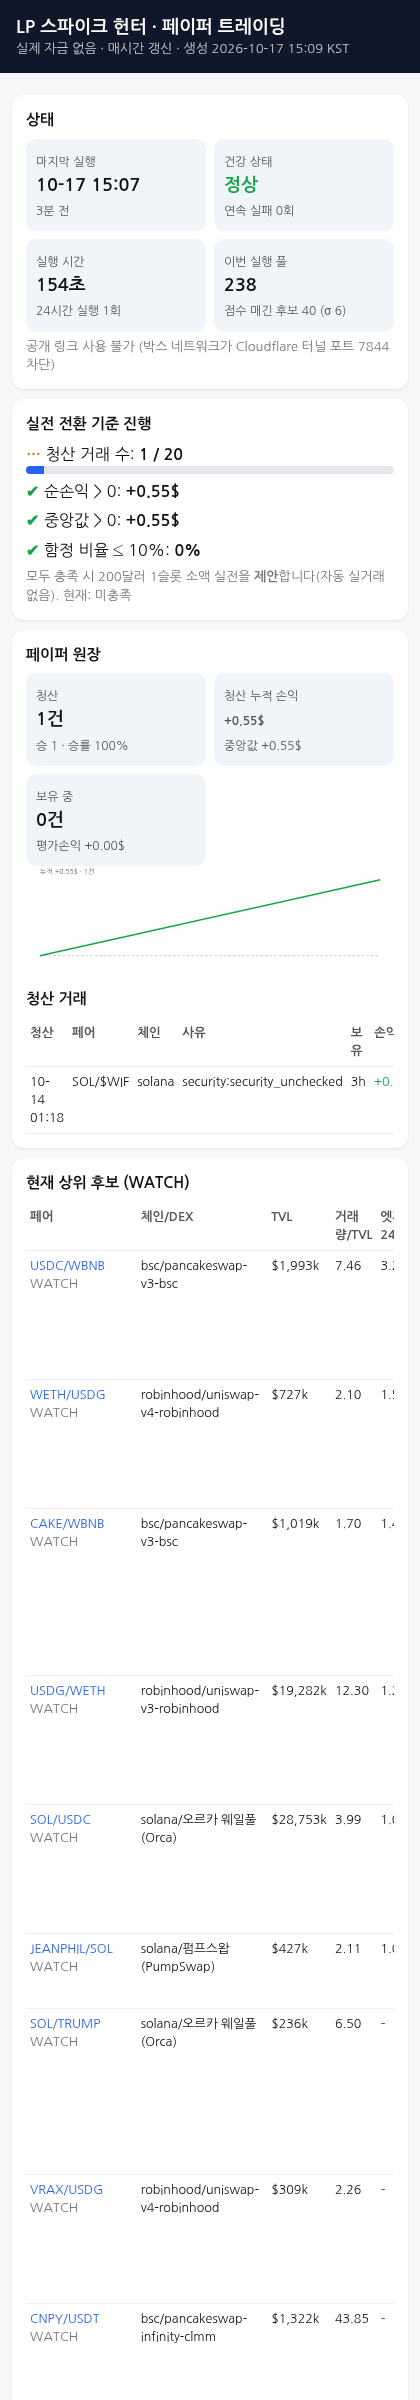
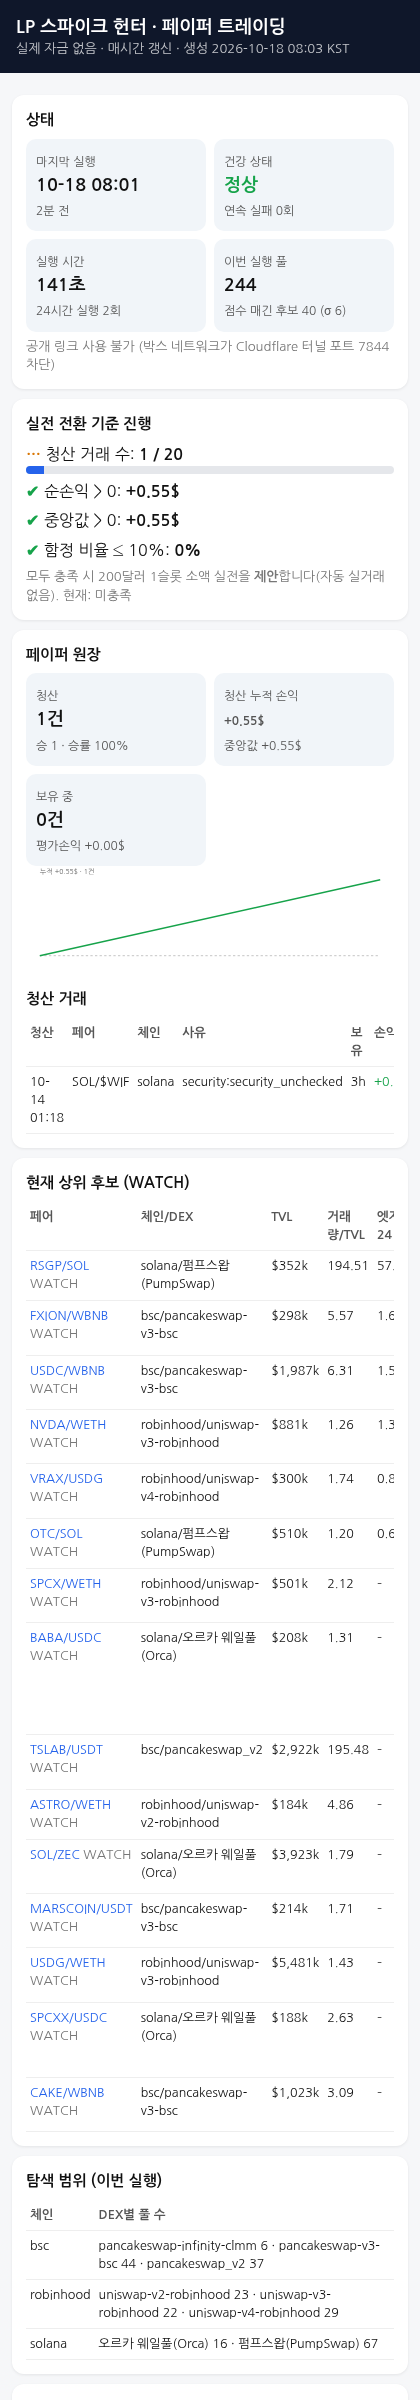
update 2026-10-18 08:03 KST

diff --git a/index.html b/index.html
@@ -12,12 +12,12 @@ th{color:#555;font-weight:600} .scroll{overflow-x:auto} .pos{color:#16a34a} .neg
 .bar{height:8px;background:#e5e7eb;border-radius:4px;overflow:hidden} .bar i{display:block;height:100%;background:#2563eb}
 .chart{width:100%;height:auto} a{color:#2563eb;text-decoration:none} .chg{color:#7c3aed;font-weight:600}
 </style></head><body>
-<header><h1>LP 스파이크 헌터 · 페이퍼 트레이딩</h1><div class="sub">실제 자금 없음 · 매시간 갱신 · 생성 2026-10-17 15:09 KST</div></header><main>
+<header><h1>LP 스파이크 헌터 · 페이퍼 트레이딩</h1><div class="sub">실제 자금 없음 · 매시간 갱신 · 생성 2026-10-18 08:03 KST</div></header><main>
 <div class="card"><h2>상태</h2><div class="grid">
-<div class="kpi"><span>마지막 실행</span><b>10-17 15:07</b><span>3분 전</span></div>
+<div class="kpi"><span>마지막 실행</span><b>10-18 08:01</b><span>2분 전</span></div>
 <div class="kpi"><span>건강 상태</span><b class="ok">정상</b><span>연속 실패 0회</span></div>
-<div class="kpi"><span>실행 시간</span><b>154초</b><span>24시간 실행 1회</span></div>
-<div class="kpi"><span>이번 실행 풀</span><b>238</b><span>점수 매긴 후보 40 (σ 6)</span></div>
+<div class="kpi"><span>실행 시간</span><b>141초</b><span>24시간 실행 2회</span></div>
+<div class="kpi"><span>이번 실행 풀</span><b>244</b><span>점수 매긴 후보 40 (σ 6)</span></div>
 </div><div class="muted" style="margin-top:6px">공개 링크 사용 불가 (박스 네트워크가 Cloudflare 터널 포트 7844 차단)</div></div>
 <div class="card"><h2>실전 전환 기준 진행</h2>
 <div style="margin:6px 0"><b class="warn">…</b> 청산 거래 수: <b>1 / 20</b><div class="bar"><i style="width:5%"></i></div></div>
@@ -35,26 +35,26 @@ th{color:#555;font-weight:600} .scroll{overflow-x:auto} .pos{color:#16a34a} .neg
 </table></div>
 </div>
 <div class="card"><h2>현재 상위 후보 (WATCH)</h2><div class="scroll"><table><tr><th>페어</th><th>체인/DEX</th><th>TVL</th><th>거래량/TVL</th><th>엣지24</th><th>엣지6</th><th>진입 안 하는 이유</th></tr>
-<tr><td><a href='https://www.geckoterminal.com/bsc/pools/0xf2688fb5b81049dfb7703ada5e770543770612c4'>USDC/WBNB</a> <span class='muted'>WATCH</span></td><td>bsc/pancakeswap-v3-bsc</td><td>$1,993k</td><td>7.46</td><td>3.25</td><td>3.76</td><td><span class="tag">24h 엣지 부족 (edge24&lt;5)</span><span class="tag">6h 엣지 부족 (edge6&lt;5)</span><span class="tag">수수료&lt;비용 (fee24&lt;2x_cost)</span><span class="tag">유동성 이력 부족(&lt;3h) (k_unsettled(&lt;3h liquidity history))</span></td></tr>
-<tr><td><a href='https://www.geckoterminal.com/robinhood/pools/0x54f7883914619af9105355bf83ed678bcf9f63560218ac61c9963b9503d0ba32'>WETH/USDG</a> <span class='muted'>WATCH</span></td><td>robinhood/uniswap-v4-robinhood</td><td>$727k</td><td>2.10</td><td>1.59</td><td>0.34</td><td><span class="tag">24h 엣지 부족 (edge24&lt;5)</span><span class="tag">6h 엣지 부족 (edge6&lt;5)</span><span class="tag">수수료&lt;비용 (fee24&lt;2x_cost)</span><span class="tag">유동성 이력 부족(&lt;3h) (k_unsettled(&lt;3h liquidity history))</span></td></tr>
-<tr><td><a href='https://www.geckoterminal.com/bsc/pools/0xafb2da14056725e3ba3a30dd846b6bbbd7886c56'>CAKE/WBNB</a> <span class='muted'>WATCH</span></td><td>bsc/pancakeswap-v3-bsc</td><td>$1,019k</td><td>1.70</td><td>1.45</td><td>2.11</td><td><span class="tag">24h 엣지 부족 (edge24&lt;5)</span><span class="tag">6h 엣지 부족 (edge6&lt;5)</span><span class="tag">보안 플래그 (security:security_unchecked)</span><span class="tag">수수료&lt;비용 (fee24&lt;2x_cost)</span><span class="tag">유동성 이력 부족(&lt;3h) (k_unsettled(&lt;3h liquidity history))</span></td></tr>
-<tr><td><a href='https://www.geckoterminal.com/robinhood/pools/0x52e65b17fb6e5ba00ed806f37afcd2daa50271ca'>USDG/WETH</a> <span class='muted'>WATCH</span></td><td>robinhood/uniswap-v3-robinhood</td><td>$19,282k</td><td>12.30</td><td>1.26</td><td>0.32</td><td><span class="tag">24h 엣지 부족 (edge24&lt;5)</span><span class="tag">6h 엣지 부족 (edge6&lt;5)</span><span class="tag">수수료&lt;비용 (fee24&lt;2x_cost)</span><span class="tag">유동성 이력 부족(&lt;3h) (k_unsettled(&lt;3h liquidity history))</span></td></tr>
-<tr><td><a href='https://www.geckoterminal.com/solana/pools/Czfq3xZZDmsdGdUyrNLtRhGc47cXcZtLG4crryfu44zE'>SOL/USDC</a> <span class='muted'>WATCH</span></td><td>solana/오르카 웨일풀(Orca)</td><td>$28,753k</td><td>3.99</td><td>1.09</td><td>0.41</td><td><span class="tag">24h 엣지 부족 (edge24&lt;5)</span><span class="tag">6h 엣지 부족 (edge6&lt;5)</span><span class="tag">수수료&lt;비용 (fee24&lt;2x_cost)</span><span class="tag">유동성 이력 부족(&lt;3h) (k_unsettled(&lt;3h liquidity history))</span></td></tr>
-<tr><td><a href='https://www.geckoterminal.com/solana/pools/4R8CiMnJWDNoes3fQi1ccPFJygPXazaHaWpHrN3rZeNj'>JEANPHIL/SOL</a> <span class='muted'>WATCH</span></td><td>solana/펌프스왑(PumpSwap)</td><td>$427k</td><td>2.11</td><td>1.09</td><td>0.46</td><td><span class="tag">24h 엣지 부족 (edge24&lt;5)</span><span class="tag">6h 엣지 부족 (edge6&lt;5)</span><span class="tag">수수료&lt;비용 (fee24&lt;2x_cost)</span></td></tr>
-<tr><td><a href='https://www.geckoterminal.com/solana/pools/Ckp1kwZqosaLU1h3zWtuaMBubyWM7LX3cxYezRVin7p2'>SOL/TRUMP</a> <span class='muted'>WATCH</span></td><td>solana/오르카 웨일풀(Orca)</td><td>$236k</td><td>6.50</td><td>–</td><td>–</td><td><span class="tag">변동성 데이터 없음</span><span class="tag">24h 엣지 부족 (edge24&lt;5)</span><span class="tag">6h 엣지 부족 (edge6&lt;5)</span><span class="tag">보안 플래그 (security:top10_holders=88%)</span><span class="tag">유동성 이력 부족(&lt;3h) (k_unsettled(&lt;3h liquidity history))</span></td></tr>
-<tr><td><a href='https://www.geckoterminal.com/robinhood/pools/0x435ea42b2792a22de296bee4e8013f4fa102f0cc04983443ff79549f847db577'>VRAX/USDG</a> <span class='muted'>WATCH</span></td><td>robinhood/uniswap-v4-robinhood</td><td>$309k</td><td>2.26</td><td>–</td><td>–</td><td><span class="tag">변동성 데이터 없음</span><span class="tag">24h 엣지 부족 (edge24&lt;5)</span><span class="tag">6h 엣지 부족 (edge6&lt;5)</span><span class="tag">유동성 이력 부족(&lt;3h) (k_unsettled(&lt;3h liquidity history))</span></td></tr>
-<tr><td><a href='https://www.geckoterminal.com/bsc/pools/0xc7bb4cf4c51fd655ea0368255929f1a42ba1a67e1e8805c54e81d61dc28f3f74'>CNPY/USDT</a> <span class='muted'>WATCH</span></td><td>bsc/pancakeswap-infinity-clmm</td><td>$1,322k</td><td>43.85</td><td>–</td><td>–</td><td><span class="tag">변동성 데이터 없음</span><span class="tag">24h 엣지 부족 (edge24&lt;5)</span><span class="tag">6h 엣지 부족 (edge6&lt;5)</span><span class="tag">보안 플래그 (security:security_unchecked)</span></td></tr>
-<tr><td><a href='https://www.geckoterminal.com/solana/pools/D6NdKrKNQPmRZCCnG1GqXtF7MMoHB7qR6GU5TkG59Qz1'>SOL/$WIF</a> <span class='muted'>WATCH</span></td><td>solana/오르카 웨일풀(Orca)</td><td>$155k</td><td>1.30</td><td>–</td><td>–</td><td><span class="tag">변동성 데이터 없음</span><span class="tag">24h 엣지 부족 (edge24&lt;5)</span><span class="tag">6h 엣지 부족 (edge6&lt;5)</span><span class="tag">보안 플래그 (security:security_unchecked)</span><span class="tag">유동성 이력 부족(&lt;3h) (k_unsettled(&lt;3h liquidity history))</span></td></tr>
-<tr><td><a href='https://www.geckoterminal.com/robinhood/pools/0x24107d152f14a76d292123265ae3f3c71f863fc2f4ef7ba49d64e78d28ea379e'>WETH/USDG</a> <span class='muted'>WATCH</span></td><td>robinhood/uniswap-v4-robinhood</td><td>$379k</td><td>6.07</td><td>–</td><td>–</td><td><span class="tag">변동성 데이터 없음</span><span class="tag">24h 엣지 부족 (edge24&lt;5)</span><span class="tag">6h 엣지 부족 (edge6&lt;5)</span><span class="tag">유동성 이력 부족(&lt;3h) (k_unsettled(&lt;3h liquidity history))</span></td></tr>
-<tr><td><a href='https://www.geckoterminal.com/bsc/pools/0x14ca9d552ed2cf0d5dfd1f89bc6793a464e2ed16'>MARSCOIN/USDT</a> <span class='muted'>WATCH</span></td><td>bsc/pancakeswap-v3-bsc</td><td>$220k</td><td>1.70</td><td>–</td><td>–</td><td><span class="tag">변동성 데이터 없음</span><span class="tag">24h 엣지 부족 (edge24&lt;5)</span><span class="tag">6h 엣지 부족 (edge6&lt;5)</span><span class="tag">보안 플래그 (security:top10_holders=61%)</span><span class="tag">유동성 이력 부족(&lt;3h) (k_unsettled(&lt;3h liquidity history))</span></td></tr>
-<tr><td><a href='https://www.geckoterminal.com/solana/pools/Fe7bpDYCs74GqiCUF14HwgUMToPKV1d9mDYVX5BTohFr'>CLAUDIA/SOL</a> <span class='muted'>WATCH</span></td><td>solana/펌프스왑(PumpSwap)</td><td>$301k</td><td>5.42</td><td>–</td><td>–</td><td><span class="tag">변동성 데이터 없음</span><span class="tag">24h 엣지 부족 (edge24&lt;5)</span><span class="tag">6h 엣지 부족 (edge6&lt;5)</span></td></tr>
-<tr><td><a href='https://www.geckoterminal.com/robinhood/pools/0x69bfaf19c9f377bb306a89aed9f6b07e2c1a8d9a'>USDG/WETH</a> <span class='muted'>WATCH</span></td><td>robinhood/uniswap-v3-robinhood</td><td>$5,521k</td><td>2.92</td><td>–</td><td>–</td><td><span class="tag">변동성 데이터 없음</span><span class="tag">24h 엣지 부족 (edge24&lt;5)</span><span class="tag">6h 엣지 부족 (edge6&lt;5)</span><span class="tag">유동성 이력 부족(&lt;3h) (k_unsettled(&lt;3h liquidity history))</span></td></tr>
-<tr><td><a href='https://www.geckoterminal.com/bsc/pools/0xa1c7fab4e28fc8244fc57e7863221fd38f9f673c'>蝴蝶人生/USDT</a> <span class='muted'>WATCH</span></td><td>bsc/pancakeswap_v2</td><td>$154k</td><td>61.74</td><td>–</td><td>–</td><td><span class="tag">변동성 데이터 없음</span><span class="tag">24h 엣지 부족 (edge24&lt;5)</span><span class="tag">6h 엣지 부족 (edge6&lt;5)</span><span class="tag">보안 플래그 (security:security_unchecked)</span></td></tr>
+<tr><td><a href='https://www.geckoterminal.com/solana/pools/9DMCBmDYtHbiuL1ctf3M4txTV5ZmdqXipkTgQ1LdFYyv'>RSGP/SOL</a> <span class='muted'>WATCH</span></td><td>solana/펌프스왑(PumpSwap)</td><td>$352k</td><td>194.51</td><td>57.88</td><td>0.00</td><td><span class="tag">6h 엣지 부족 (edge6&lt;5)</span><span class="tag">보안 플래그 (security:top10_holders=98%)</span></td></tr>
+<tr><td><a href='https://www.geckoterminal.com/bsc/pools/0x02eda8dbc97a0c9adfbbfab589430d76a7c7f5b6'>FXION/WBNB</a> <span class='muted'>WATCH</span></td><td>bsc/pancakeswap-v3-bsc</td><td>$298k</td><td>5.57</td><td>1.60</td><td>1.67</td><td><span class="tag">24h 엣지 부족 (edge24&lt;5)</span><span class="tag">6h 엣지 부족 (edge6&lt;5)</span><span class="tag">보안 플래그 (security:security_unchecked)</span><span class="tag">수수료&lt;비용 (fee24&lt;2x_cost)</span><span class="tag">유동성 이력 부족(&lt;3h) (k_unsettled(&lt;3h liquidity history))</span></td></tr>
+<tr><td><a href='https://www.geckoterminal.com/bsc/pools/0xf2688fb5b81049dfb7703ada5e770543770612c4'>USDC/WBNB</a> <span class='muted'>WATCH</span></td><td>bsc/pancakeswap-v3-bsc</td><td>$1,987k</td><td>6.31</td><td>1.50</td><td>1.28</td><td><span class="tag">24h 엣지 부족 (edge24&lt;5)</span><span class="tag">6h 엣지 부족 (edge6&lt;5)</span><span class="tag">수수료&lt;비용 (fee24&lt;2x_cost)</span><span class="tag">유동성 이력 부족(&lt;3h) (k_unsettled(&lt;3h liquidity history))</span></td></tr>
+<tr><td><a href='https://www.geckoterminal.com/robinhood/pools/0x62ab521f71431f78ac374cdbadc6cda3c8916b6c'>NVDA/WETH</a> <span class='muted'>WATCH</span></td><td>robinhood/uniswap-v3-robinhood</td><td>$881k</td><td>1.26</td><td>1.36</td><td>2.34</td><td><span class="tag">24h 엣지 부족 (edge24&lt;5)</span><span class="tag">6h 엣지 부족 (edge6&lt;5)</span><span class="tag">보안 플래그 (security:security_unchecked)</span><span class="tag">수수료&lt;비용 (fee24&lt;2x_cost)</span><span class="tag">유동성 이력 부족(&lt;3h) (k_unsettled(&lt;3h liquidity history))</span></td></tr>
+<tr><td><a href='https://www.geckoterminal.com/robinhood/pools/0x435ea42b2792a22de296bee4e8013f4fa102f0cc04983443ff79549f847db577'>VRAX/USDG</a> <span class='muted'>WATCH</span></td><td>robinhood/uniswap-v4-robinhood</td><td>$300k</td><td>1.74</td><td>0.85</td><td>1.24</td><td><span class="tag">24h 엣지 부족 (edge24&lt;5)</span><span class="tag">6h 엣지 부족 (edge6&lt;5)</span><span class="tag">유동성 이력 부족(&lt;3h) (k_unsettled(&lt;3h liquidity history))</span></td></tr>
+<tr><td><a href='https://www.geckoterminal.com/solana/pools/DA4pM4xSDY4M9V4CgAKKBVH1pw1yscTQQa5nEkGHuKpt'>OTC/SOL</a> <span class='muted'>WATCH</span></td><td>solana/펌프스왑(PumpSwap)</td><td>$510k</td><td>1.20</td><td>0.68</td><td>0.40</td><td><span class="tag">24h 엣지 부족 (edge24&lt;5)</span><span class="tag">6h 엣지 부족 (edge6&lt;5)</span><span class="tag">수수료&lt;비용 (fee24&lt;2x_cost)</span></td></tr>
+<tr><td><a href='https://www.geckoterminal.com/robinhood/pools/0xc3c9f0171490ef0f4536fe493f3b0ebb5ee0cb5e'>SPCX/WETH</a> <span class='muted'>WATCH</span></td><td>robinhood/uniswap-v3-robinhood</td><td>$501k</td><td>2.12</td><td>–</td><td>–</td><td><span class="tag">변동성 데이터 없음</span><span class="tag">24h 엣지 부족 (edge24&lt;5)</span><span class="tag">6h 엣지 부족 (edge6&lt;5)</span><span class="tag">유동성 이력 부족(&lt;3h) (k_unsettled(&lt;3h liquidity history))</span></td></tr>
+<tr><td><a href='https://www.geckoterminal.com/solana/pools/6EVgUURuvprazVdpd717E9uqruHcqRPbhRKDm5Czdidu'>BABA/USDC</a> <span class='muted'>WATCH</span></td><td>solana/오르카 웨일풀(Orca)</td><td>$208k</td><td>1.31</td><td>–</td><td>–</td><td><span class="tag">변동성 데이터 없음</span><span class="tag">24h 엣지 부족 (edge24&lt;5)</span><span class="tag">6h 엣지 부족 (edge6&lt;5)</span><span class="tag">보안 플래그 (security:mintable|freezable|balance_mutable_authority|transfer_hook_upgradable|top10_holders=58%)</span><span class="tag">유동성 이력 부족(&lt;3h) (k_unsettled(&lt;3h liquidity history))</span><span class="tag">토큰-2022 위험 확장 (t22:BABA.pausableConfig|BABA.permanentDelegate)</span></td></tr>
+<tr><td><a href='https://www.geckoterminal.com/bsc/pools/0x58171ada82c38397d1620388fef9b526ca16ec77'>TSLAB/USDT</a> <span class='muted'>WATCH</span></td><td>bsc/pancakeswap_v2</td><td>$2,922k</td><td>195.48</td><td>–</td><td>–</td><td><span class="tag">변동성 데이터 없음</span><span class="tag">24h 엣지 부족 (edge24&lt;5)</span><span class="tag">6h 엣지 부족 (edge6&lt;5)</span><span class="tag">너무 신규</span><span class="tag">보안 플래그 (security:security_unchecked)</span></td></tr>
+<tr><td><a href='https://www.geckoterminal.com/robinhood/pools/0x3416b8d8aa6ae642ffdc2f65165ff479d4bd3007'>ASTRO/WETH</a> <span class='muted'>WATCH</span></td><td>robinhood/uniswap-v2-robinhood</td><td>$184k</td><td>4.86</td><td>–</td><td>–</td><td><span class="tag">변동성 데이터 없음</span><span class="tag">24h 엣지 부족 (edge24&lt;5)</span><span class="tag">6h 엣지 부족 (edge6&lt;5)</span></td></tr>
+<tr><td><a href='https://www.geckoterminal.com/solana/pools/2TAgfogn8JRwwTnsGKUa6WUT5Xdv1iMEzfEDMor68X9C'>SOL/ZEC</a> <span class='muted'>WATCH</span></td><td>solana/오르카 웨일풀(Orca)</td><td>$3,923k</td><td>1.79</td><td>–</td><td>–</td><td><span class="tag">변동성 데이터 없음</span><span class="tag">24h 엣지 부족 (edge24&lt;5)</span><span class="tag">6h 엣지 부족 (edge6&lt;5)</span><span class="tag">보안 플래그 (security:security_unchecked)</span><span class="tag">유동성 이력 부족(&lt;3h) (k_unsettled(&lt;3h liquidity history))</span></td></tr>
+<tr><td><a href='https://www.geckoterminal.com/bsc/pools/0x14ca9d552ed2cf0d5dfd1f89bc6793a464e2ed16'>MARSCOIN/USDT</a> <span class='muted'>WATCH</span></td><td>bsc/pancakeswap-v3-bsc</td><td>$214k</td><td>1.71</td><td>–</td><td>–</td><td><span class="tag">변동성 데이터 없음</span><span class="tag">24h 엣지 부족 (edge24&lt;5)</span><span class="tag">6h 엣지 부족 (edge6&lt;5)</span><span class="tag">보안 플래그 (security:security_unchecked)</span><span class="tag">유동성 이력 부족(&lt;3h) (k_unsettled(&lt;3h liquidity history))</span></td></tr>
+<tr><td><a href='https://www.geckoterminal.com/robinhood/pools/0x69bfaf19c9f377bb306a89aed9f6b07e2c1a8d9a'>USDG/WETH</a> <span class='muted'>WATCH</span></td><td>robinhood/uniswap-v3-robinhood</td><td>$5,481k</td><td>1.43</td><td>–</td><td>–</td><td><span class="tag">변동성 데이터 없음</span><span class="tag">24h 엣지 부족 (edge24&lt;5)</span><span class="tag">6h 엣지 부족 (edge6&lt;5)</span><span class="tag">유동성 이력 부족(&lt;3h) (k_unsettled(&lt;3h liquidity history))</span></td></tr>
+<tr><td><a href='https://www.geckoterminal.com/solana/pools/ASAxmEaTT1HFe3mVC3zbKDE4tuB28W7732XQrEMBM5W2'>SPCXX/USDC</a> <span class='muted'>WATCH</span></td><td>solana/오르카 웨일풀(Orca)</td><td>$188k</td><td>2.63</td><td>–</td><td>–</td><td><span class="tag">변동성 데이터 없음</span><span class="tag">24h 엣지 부족 (edge24&lt;5)</span><span class="tag">6h 엣지 부족 (edge6&lt;5)</span><span class="tag">보안 플래그 (security:security_unchecked)</span><span class="tag">유동성 이력 부족(&lt;3h) (k_unsettled(&lt;3h liquidity history))</span><span class="tag">토큰-2022 위험 확장 (t22:SPCXX.pausableConfig|SPCXX.permanentDelegate)</span></td></tr>
+<tr><td><a href='https://www.geckoterminal.com/bsc/pools/0xafb2da14056725e3ba3a30dd846b6bbbd7886c56'>CAKE/WBNB</a> <span class='muted'>WATCH</span></td><td>bsc/pancakeswap-v3-bsc</td><td>$1,023k</td><td>3.09</td><td>–</td><td>–</td><td><span class="tag">변동성 데이터 없음</span><span class="tag">24h 엣지 부족 (edge24&lt;5)</span><span class="tag">6h 엣지 부족 (edge6&lt;5)</span><span class="tag">보안 플래그 (security:security_unchecked)</span><span class="tag">유동성 이력 부족(&lt;3h) (k_unsettled(&lt;3h liquidity history))</span></td></tr>
 </table></div></div>
 <div class="card"><h2>탐색 범위 (이번 실행)</h2><table><tr><th>체인</th><th>DEX별 풀 수</th></tr>
-<tr><td>bsc</td><td>pancakeswap-infinity-clmm 5 · pancakeswap-v3-bsc 43 · pancakeswap_v2 31</td></tr>
-<tr><td>robinhood</td><td>uniswap-v2-robinhood 20 · uniswap-v3-robinhood 23 · uniswap-v4-robinhood 28</td></tr>
-<tr><td>solana</td><td>오르카 웨일풀(Orca) 23 · 펌프스왑(PumpSwap) 65</td></tr>
+<tr><td>bsc</td><td>pancakeswap-infinity-clmm 6 · pancakeswap-v3-bsc 44 · pancakeswap_v2 37</td></tr>
+<tr><td>robinhood</td><td>uniswap-v2-robinhood 23 · uniswap-v3-robinhood 22 · uniswap-v4-robinhood 29</td></tr>
+<tr><td>solana</td><td>오르카 웨일풀(Orca) 16 · 펌프스왑(PumpSwap) 67</td></tr>
 </table></div>
 <div class="card"><h2>현재 규칙 (자동 튜닝 대상)</h2><table>
 <tr><td>진입 엣지 기준</td><td><b>5</b></td></tr>
@@ -66,6 +66,7 @@ th{color:#555;font-weight:600} .scroll{overflow-x:auto} .pos{color:#16a34a} .neg
 <tr><td>수수료/비용 배수</td><td><b>2</b></td></tr>
 <tr><td>급증 필터</td><td><b>0</b></td></tr>
 </table><h2 style="margin-top:12px">튜닝 기록 (최근)</h2>
+<div style="margin:6px 0;font-size:13px"><b class="muted">2026-10-18 08:03 KST</b> 유지 2026-10-18 08:03 KST: {&#x27;E&#x27;: 5, &#x27;W&#x27;: 0.15, &#x27;H&#x27;: 48, &#x27;X&#x27;: 1.0, &#x27;LL&#x27;: 0.3, &#x27;T&#x27;: 1.0, &#x27;FC&#x27;: 2} 유지. 이유: no improve (mean +7.11%→+7.06%, median +3.21%→+3.08%). 현재 OOS n=53 hit 81% mean +7.11% median +3.21% Σ $+753 / 후보 {&#x27;E&#x27;: 5, &#x27;W&#x27;: 0.15, &#x27;H&#x27;: 48, &#x27;X&#x27;: 0.5, &#x27;LL&#x27;: 0.3, &#x27;T&#x27;: 1.0, &#x27;FC&#x27;: 1} OOS n=53 hit 81% mean +7.06% median +3.08% Σ $+748. 페이퍼 청산 1건 Σ $+0.55. (3.6s)</div>
 <div style="margin:6px 0;font-size:13px"><b class="muted">2026-10-17 15:09 KST</b> 유지 2026-10-17 15:09 KST: {&#x27;E&#x27;: 5, &#x27;W&#x27;: 0.15, &#x27;H&#x27;: 48, &#x27;X&#x27;: 1.0, &#x27;LL&#x27;: 0.3, &#x27;T&#x27;: 1.0, &#x27;FC&#x27;: 2} 유지. 이유: no improve (mean +7.11%→+7.06%, median +3.21%→+3.08%). 현재 OOS n=53 hit 81% mean +7.11% median +3.21% Σ $+753 / 후보 {&#x27;E&#x27;: 5, &#x27;W&#x27;: 0.15, &#x27;H&#x27;: 48, &#x27;X&#x27;: 0.5, &#x27;LL&#x27;: 0.3, &#x27;T&#x27;: 1.0, &#x27;FC&#x27;: 1} OOS n=53 hit 81% mean +7.06% median +3.08% Σ $+748. 페이퍼 청산 1건 Σ $+0.55. (3.8s)</div>
 <div style="margin:6px 0;font-size:13px"><b class="muted">2026-10-16 08:41 KST</b> 유지 2026-10-16 08:41 KST: {&#x27;E&#x27;: 5, &#x27;W&#x27;: 0.15, &#x27;H&#x27;: 48, &#x27;X&#x27;: 1.0, &#x27;LL&#x27;: 0.3, &#x27;T&#x27;: 1.0, &#x27;FC&#x27;: 2} 유지. 이유: no improve (mean +7.11%→+7.06%, median +3.21%→+3.08%). 현재 OOS n=53 hit 81% mean +7.11% median +3.21% Σ $+753 / 후보 {&#x27;E&#x27;: 5, &#x27;W&#x27;: 0.15, &#x27;H&#x27;: 48, &#x27;X&#x27;: 0.5, &#x27;LL&#x27;: 0.3, &#x27;T&#x27;: 1.0, &#x27;FC&#x27;: 1} OOS n=53 hit 81% mean +7.06% median +3.08% Σ $+748. 페이퍼 청산 1건 Σ $+0.55. (3.7s)</div>
 <div style="margin:6px 0;font-size:13px"><b class="muted">2026-10-15 20:01 KST</b> 유지 2026-10-15 20:01 KST: {&#x27;E&#x27;: 5, &#x27;W&#x27;: 0.15, &#x27;H&#x27;: 48, &#x27;X&#x27;: 1.0, &#x27;LL&#x27;: 0.3, &#x27;T&#x27;: 1.0, &#x27;FC&#x27;: 2} 유지. 이유: no improve (mean +7.11%→+7.06%, median +3.21%→+3.08%). 현재 OOS n=53 hit 81% mean +7.11% median +3.21% Σ $+753 / 후보 {&#x27;E&#x27;: 5, &#x27;W&#x27;: 0.15, &#x27;H&#x27;: 48, &#x27;X&#x27;: 0.5, &#x27;LL&#x27;: 0.3, &#x27;T&#x27;: 1.0, &#x27;FC&#x27;: 1} OOS n=53 hit 81% mean +7.06% median +3.08% Σ $+748. 페이퍼 청산 1건 Σ $+0.55. (3.6s)</div>
@@ -80,6 +81,5 @@ th{color:#555;font-weight:600} .scroll{overflow-x:auto} .pos{color:#16a34a} .neg
 <div style="margin:6px 0;font-size:13px"><b class="muted">2026-10-13 16:00 KST</b> 유지 2026-10-13 16:00 KST: {&#x27;E&#x27;: 5, &#x27;W&#x27;: 0.15, &#x27;H&#x27;: 48, &#x27;X&#x27;: 1.0, &#x27;LL&#x27;: 0.3, &#x27;T&#x27;: 1.0, &#x27;FC&#x27;: 2} 유지. 이유: no improve (mean +7.11%→+7.06%, median +3.21%→+3.08%). 현재 OOS n=53 hit 81% mean +7.11% median +3.21% Σ $+753 / 후보 {&#x27;E&#x27;: 5, &#x27;W&#x27;: 0.15, &#x27;H&#x27;: 48, &#x27;X&#x27;: 0.5, &#x27;LL&#x27;: 0.3, &#x27;T&#x27;: 1.0, &#x27;FC&#x27;: 1} OOS n=53 hit 81% mean +7.06% median +3.08% Σ $+748. 페이퍼 청산 0건 Σ $+0.00. (3.6s)</div>
 <div style="margin:6px 0;font-size:13px"><b class="muted">2026-10-13 13:05 KST</b> 유지 2026-10-13 13:05 KST: {&#x27;E&#x27;: 5, &#x27;W&#x27;: 0.15, &#x27;H&#x27;: 48, &#x27;X&#x27;: 1.0, &#x27;LL&#x27;: 0.3, &#x27;T&#x27;: 1.0, &#x27;FC&#x27;: 2} 유지. 이유: no improve (mean +7.11%→+7.06%, median +3.21%→+3.08%). 현재 OOS n=53 hit 81% mean +7.11% median +3.21% Σ $+753 / 후보 {&#x27;E&#x27;: 5, &#x27;W&#x27;: 0.15, &#x27;H&#x27;: 48, &#x27;X&#x27;: 0.5, &#x27;LL&#x27;: 0.3, &#x27;T&#x27;: 1.0, &#x27;FC&#x27;: 1} OOS n=53 hit 81% mean +7.06% median +3.08% Σ $+748. 페이퍼 청산 0건 Σ $+0.00. (4.1s)</div>
 <div style="margin:6px 0;font-size:13px"><b class="muted">2026-10-13 11:48 KST</b> 유지 2026-10-13 11:48 KST: {&#x27;E&#x27;: 5, &#x27;W&#x27;: 0.15, &#x27;H&#x27;: 48, &#x27;X&#x27;: 1.0, &#x27;LL&#x27;: 0.3, &#x27;T&#x27;: 1.0, &#x27;FC&#x27;: 2} 유지. 이유: no improve (mean +7.11%→+7.06%, median +3.21%→+3.08%). 현재 OOS n=53 hit 81% mean +7.11% median +3.21% Σ $+753 / 후보 {&#x27;E&#x27;: 5, &#x27;W&#x27;: 0.15, &#x27;H&#x27;: 48, &#x27;X&#x27;: 0.5, &#x27;LL&#x27;: 0.3, &#x27;T&#x27;: 1.0, &#x27;FC&#x27;: 1} OOS n=53 hit 81% mean +7.06% median +3.08% Σ $+748. 페이퍼 청산 0건 Σ $+0.00. (4.0s)</div>
-<div style="margin:6px 0;font-size:13px"><b class="muted">2026-10-08 22:16 KST</b> 유지 2026-10-08 22:16 KST: {&#x27;E&#x27;: 5, &#x27;W&#x27;: 0.15, &#x27;H&#x27;: 48, &#x27;X&#x27;: 1.0, &#x27;LL&#x27;: 0.3, &#x27;T&#x27;: 1.0, &#x27;FC&#x27;: 2} 유지. 이유: no improve (mean +7.11%→+7.06%, median +3.21%→+3.08%). 현재 OOS n=53 hit 81% mean +7.11% median +3.21% Σ $+753 / 후보 {&#x27;E&#x27;: 5, &#x27;W&#x27;: 0.15, &#x27;H&#x27;: 48, &#x27;X&#x27;: 0.5, &#x27;LL&#x27;: 0.3, &#x27;T&#x27;: 1.0, &#x27;FC&#x27;: 1} OOS n=53 hit 81% mean +7.06% median +3.08% Σ $+748. 페이퍼 청산 0건 Σ $+0.00. (5.5s)</div>
 </div>
 <div class="muted" style="text-align:center;margin:16px">페이퍼(가상) 결과만 표시합니다. 지갑·키·자금 정보는 포함하지 않습니다. 5분마다 자동 새로고침.</div></main></body></html>
